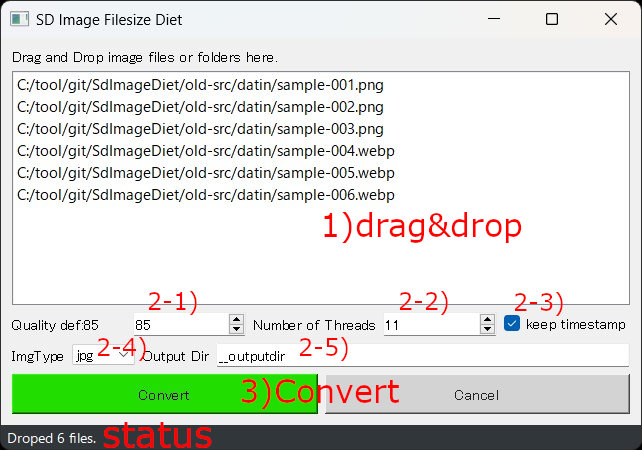
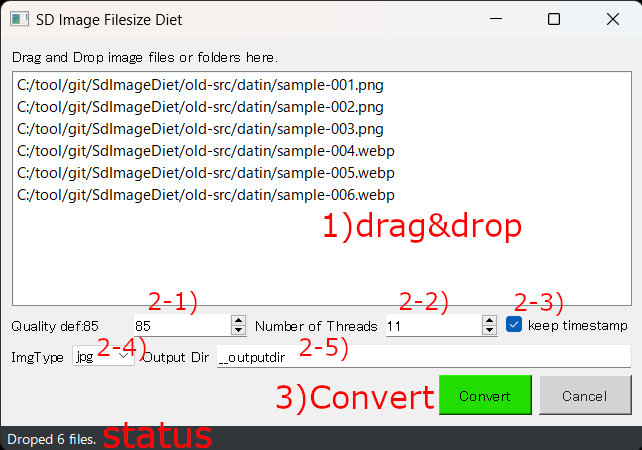
0.1.2 ボタンの押し間違い防止スペーサーを追加

diff --git a/SdImageDietGUI.py b/SdImageDietGUI.py
@@ -138,6 +138,7 @@ class MainWindow(QMainWindow):
 
         # ボタンレイアウト（横並び）
         self.buttonLayout = QHBoxLayout()
+        self.buttonLayout.addStretch()  # ボタンの押し間違いがたまにあったのでスペースを追加
         # 変換ボタン
         self.convertButton = QPushButton('Convert')
         self.convertButton.setFixedHeight(40)  # ボタンの高さを調整

diff --git a/readme.md b/readme.md
@@ -1,4 +1,4 @@
-## SdImageDietについて 0.1.1
+## SdImageDietについて 0.1.2
 StableDiffusionで作成したPNG,JPG,WEBP画像のプロンプト情報を保持したまま「マルチスレッド」で高速にJPG,WEBP画像に変換します  
 主にPrompt情報は後で参考にしたいが、画像品質を犠牲にしてファイルサイズを小さくしたい利用シーンを想定しています  
 また、比較的どうでも良い画像ファイルの容量削減なんかにも便利です  
@@ -127,6 +127,7 @@ options:
 - アプリによってはExifコメントの文字コードを正確に判断できないかもしれませんが、ForgeのPNG Infoでの読み込みが正常に行われる事を優先しています  
 
 ## 変更履歴
+- 0.1.2 Converボタンの押し間違いをしやすいのでスペースを追加
 - 0.1.1 拡張子が大文字だった場合の判定ミスを修正
 - 0.1.0 初版
 
